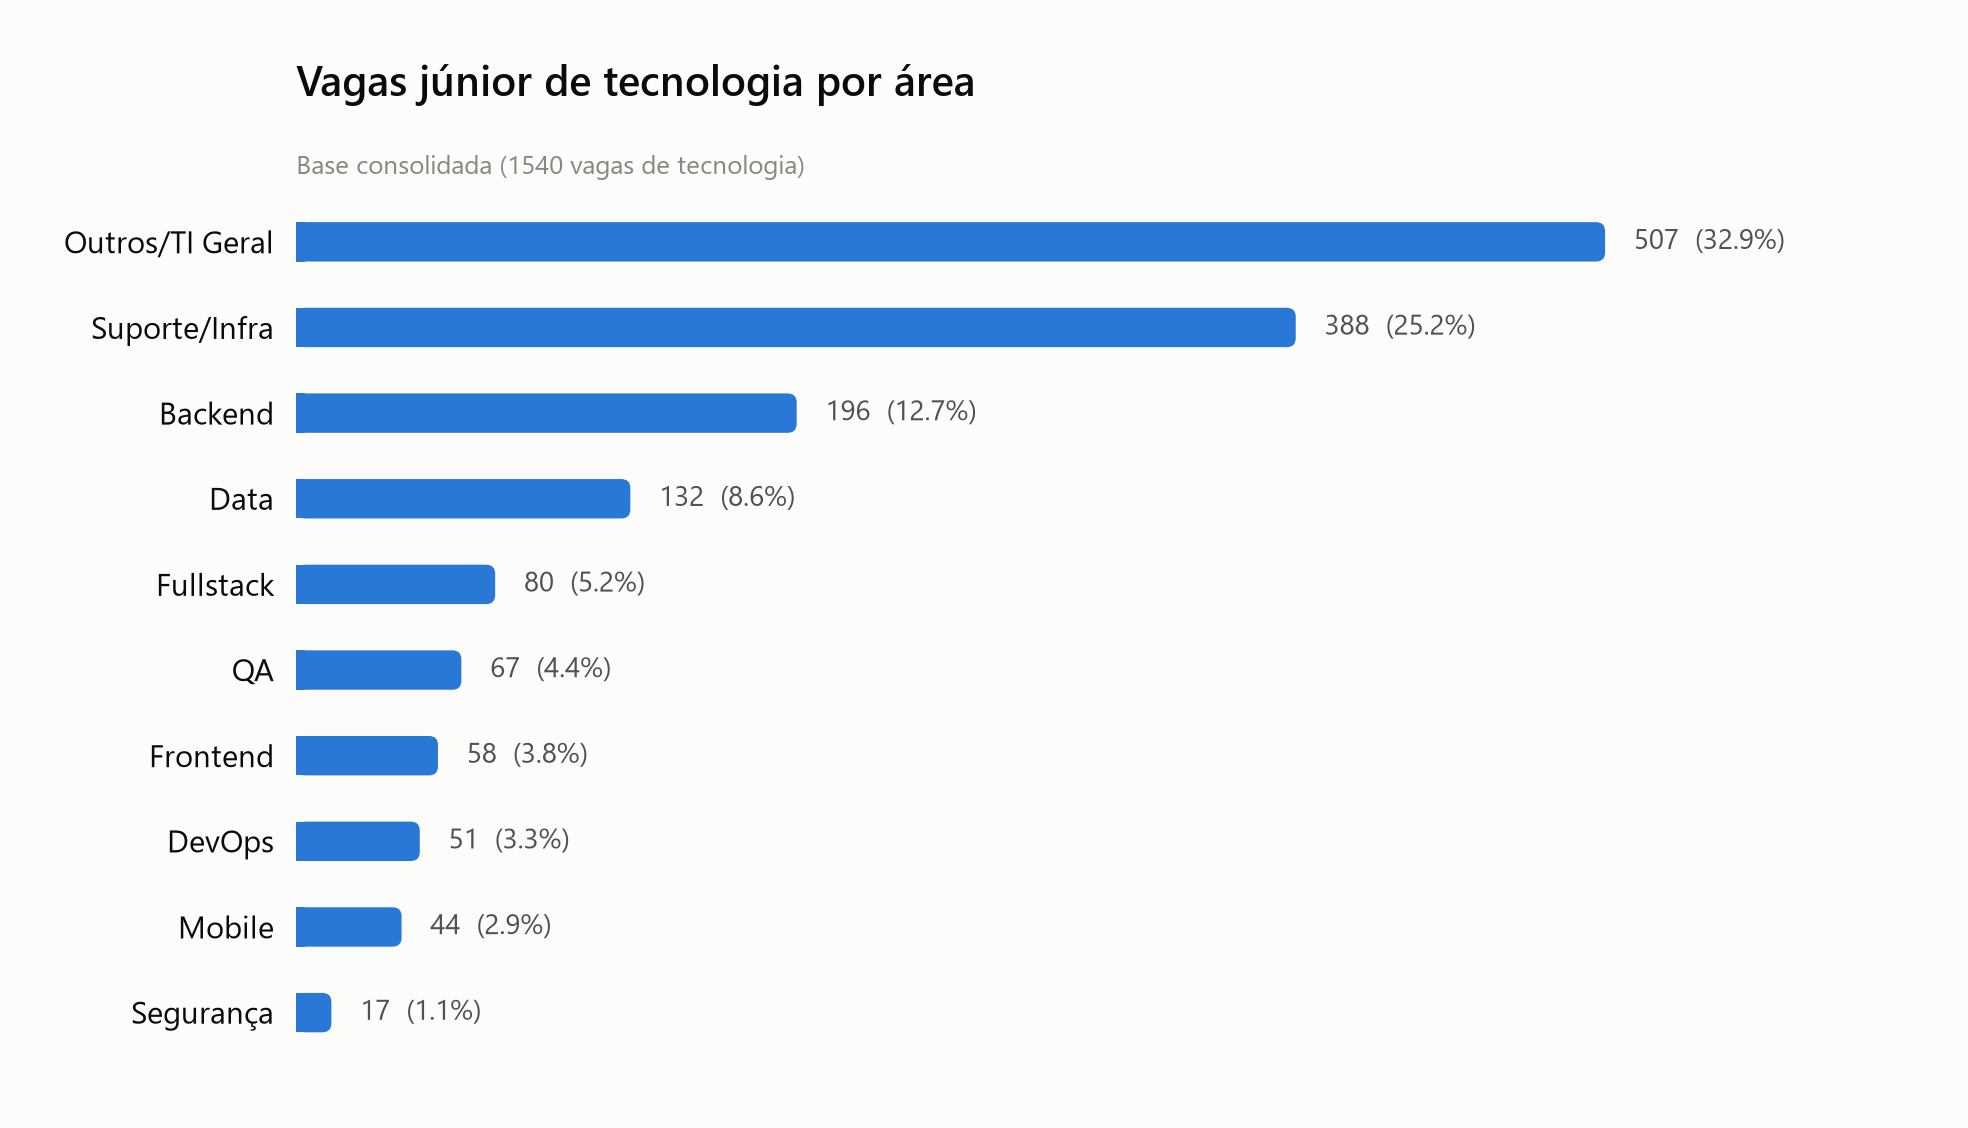
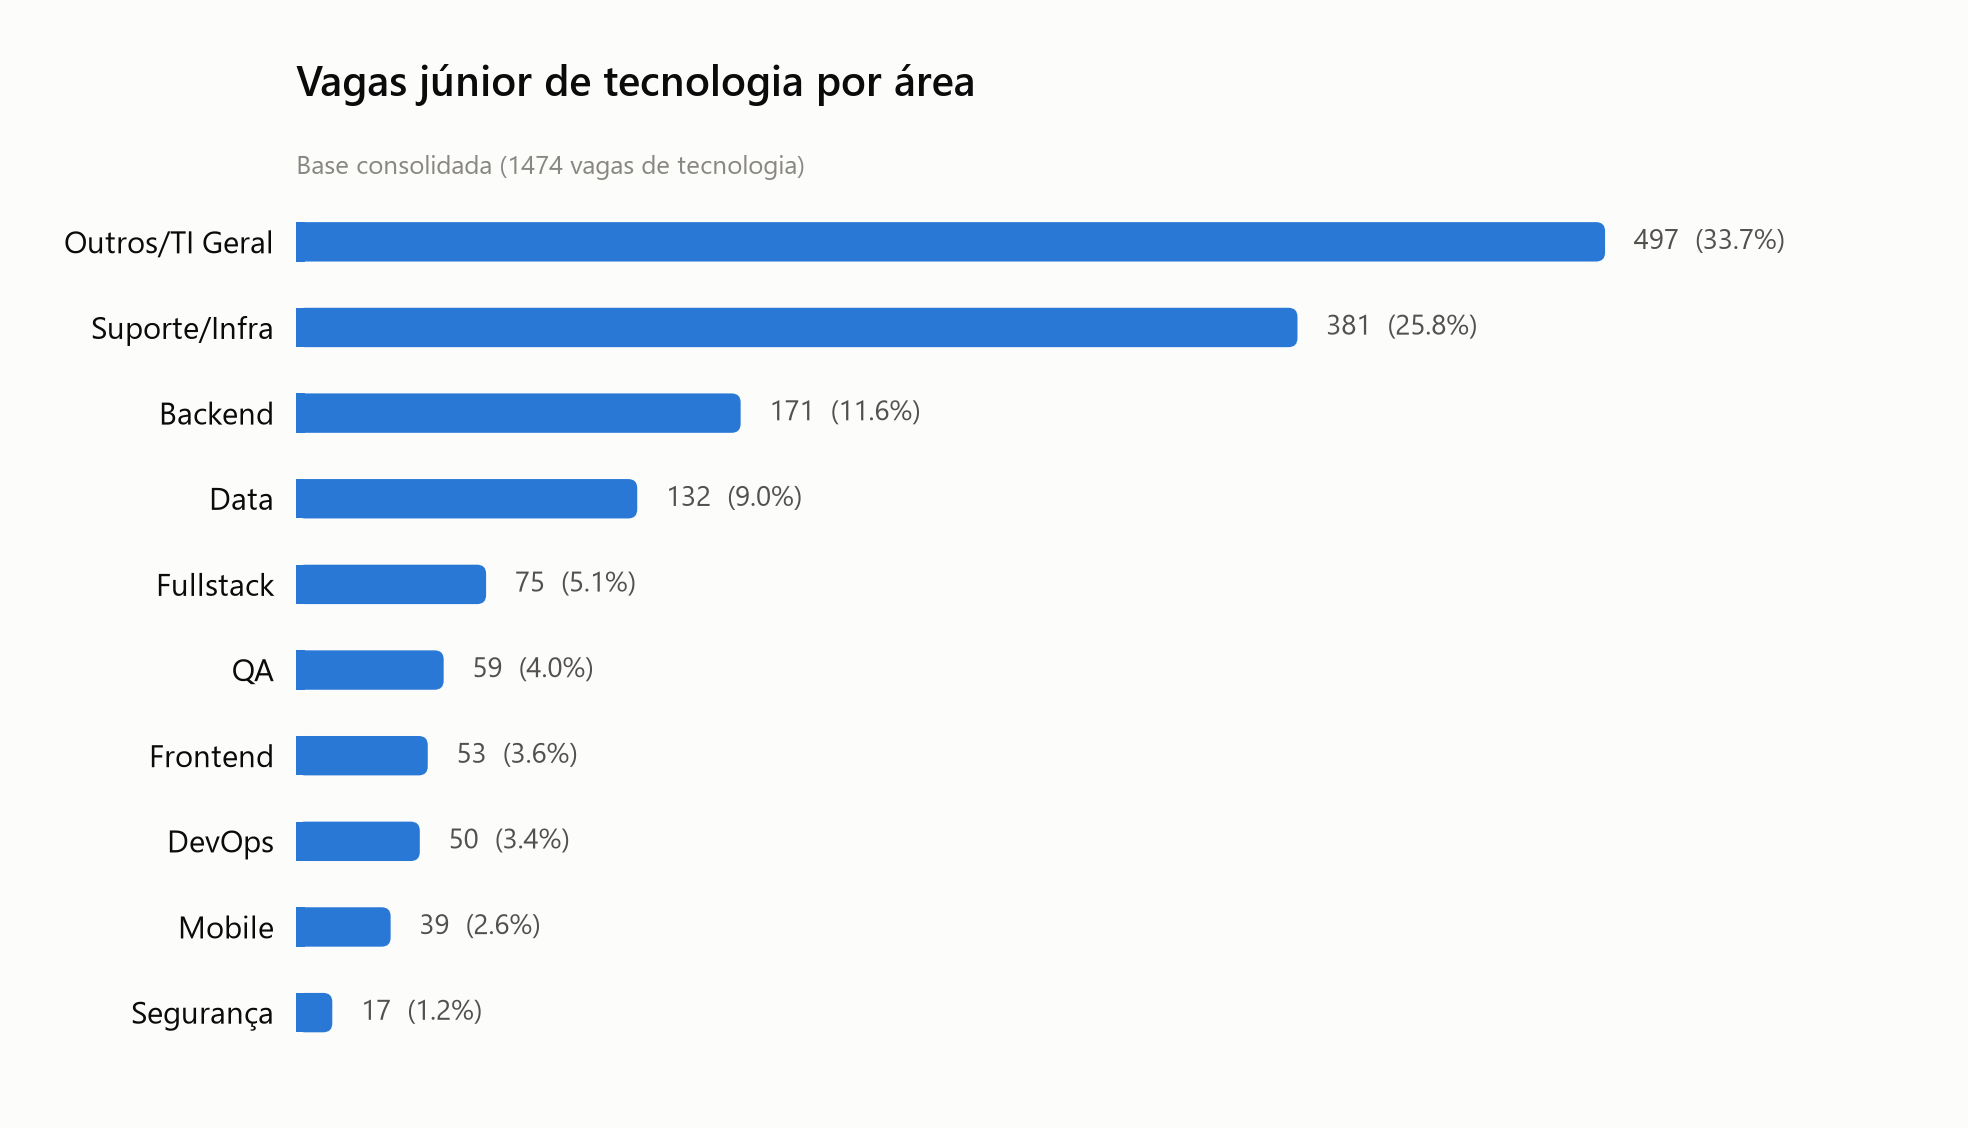
refactor: alinha identificacao do projeto tech-skills-br, expurga dados legados e ajusta licencas
- Atualiza metadados da CLI (prog, docstrings e User-Agent) e arvore do repositorio para tech-skills-br.
- Purga 66 registros anteriores a 2026 do SQLite, consolidando a base 100% no periodo da pesquisa (1.474 vagas em 2026).
- Restaura o texto original da Licenca MIT de Emidio Lopes em docs/arquitetura_tecnica.md.
- Adiciona referencia de projeto derivado no README.md e sincroniza seed/vagas.csv e relatorios consolidados.

diff --git a/main.py b/main.py
@@ -1,9 +1,10 @@
-"""CLI do vagas-tech-junior.
+"""CLI do tech-skills-br - Mapeamento de Skills em Tecnologia no Brasil (PIBIC).
 
 Exemplos:
-    python main.py                          # coleta completa (Gupy + Vagas.com)
-    python main.py --sources gupy           # so a Gupy
-    python main.py --terms "estagio dados" "engenheiro de dados junior"
+    python main.py                          # coleta padrao gratuita (Gupy, LinkedIn, etc.)
+    python main.py --sources serpapi        # coleta isolada Google Jobs
+    python main.py --sources theirstack     # coleta isolada TheirStack
+    python main.py --terms "estagio ti" "engenheiro de dados junior"
     python main.py --max-pages 2 --delay 2  # coleta menor e mais lenta
     python main.py --strict                 # descarta titulos "Junior/Pleno"
 """
@@ -22,11 +23,12 @@ from scraper.sources import AVAILABLE_SOURCES, DEFAULT_SOURCES
 
 def build_parser() -> argparse.ArgumentParser:
     parser = argparse.ArgumentParser(
-        prog="vagas-tech-junior",
-        description="Descobre qual area de tecnologia tem mais vagas junior no Brasil.",
+        prog="tech-skills-br",
+        description="Mineracao e mapeamento de habilidades tecnicas (skills) demandadas no mercado de tecnologia no Brasil (PIBIC).",
         formatter_class=argparse.RawDescriptionHelpFormatter,
         epilog=__doc__,
     )
+
     parser.add_argument(
         "--sources", nargs="+", default=list(DEFAULT_SOURCES),
         choices=AVAILABLE_SOURCES,

diff --git a/scraper/config.py b/scraper/config.py
@@ -45,8 +45,10 @@ def _load_dotenv(env_path: Path | None = None) -> None:
 _load_dotenv()
 
 USER_AGENT = (
-    "vagas-tech-junior/1.0 (estudo de mercado de trabalho) python-requests"
+    "tech-skills-br/1.0 (pesquisa academica PIBIC - mapeamento de skills tech) python-requests"
 )
+
+
 
 # Termos usados na busca. Cada termo vira uma consulta separada em cada portal.
 SEARCH_TERMS: list[str] = [

diff --git a/scraper/__init__.py b/scraper/__init__.py
@@ -1,4 +1,4 @@
-"""vagas-tech-junior -- qual area de tech mais contrata junior no Brasil."""
+"""tech-skills-br -- Mapeamento de Skills em Tecnologia no Brasil (PIBIC)."""
 
 __version__ = "1.0.0"
 

diff --git a/docs/relatorio_banco_consolidado.md b/docs/relatorio_banco_consolidado.md
@@ -1,79 +1,79 @@
-# Relatório Consolidado da Base de Vagas (1540 vagas)
+# Relatório Consolidado da Base de Vagas (1474 vagas)
 
-- **Data de geração:** 23/08/2026 17:36
-- **Período coberto:** 10/03/2022 até 23/08/2026
-- **Total de vagas consolidadas:** 1540
+- **Data de geração:** 24/08/2026 01:19
+- **Período coberto:** 05/01/2026 até 23/08/2026
+- **Total de vagas consolidadas:** 1474
 
 ## Ranking de Áreas de Tecnologia
 
 | Posição | Área | Vagas | % | Gráfico |
 |---|---|---|---|---|
-| 1 | Outros/TI Geral | 507 | 32.9% | #######............. |
-| 2 | Suporte/Infra | 388 | 25.2% | #####............... |
-| 3 | Backend | 196 | 12.7% | ###................. |
-| 4 | Data | 132 | 8.6% | ##.................. |
-| 5 | Fullstack | 80 | 5.2% | #................... |
-| 6 | QA | 67 | 4.4% | #................... |
-| 7 | Frontend | 58 | 3.8% | #................... |
-| 8 | DevOps | 51 | 3.3% | #................... |
-| 9 | Mobile | 44 | 2.9% | #................... |
-| 10 | Segurança | 17 | 1.1% | .................... |
+| 1 | Outros/TI Geral | 497 | 33.7% | #######............. |
+| 2 | Suporte/Infra | 381 | 25.8% | #####............... |
+| 3 | Backend | 171 | 11.6% | ##.................. |
+| 4 | Data | 132 | 9.0% | ##.................. |
+| 5 | Fullstack | 75 | 5.1% | #................... |
+| 6 | QA | 59 | 4.0% | #................... |
+| 7 | Frontend | 53 | 3.6% | #................... |
+| 8 | DevOps | 50 | 3.4% | #................... |
+| 9 | Mobile | 39 | 2.6% | #................... |
+| 10 | Segurança | 17 | 1.2% | .................... |
 
 ## Distribuição por Macrorregião
 
 | Região | Vagas | % | Gráfico |
 |---|---|---|---|
-| Sudeste | 710 | 46.1% | #########........... |
-| Remoto Nacional | 235 | 15.3% | ###................. |
-| Sul | 212 | 13.8% | ###................. |
-| Nacional | 124 | 8.1% | ##.................. |
-| Nordeste | 105 | 6.8% | #................... |
-| Não informado | 70 | 4.5% | #................... |
-| Centro-Oeste | 56 | 3.6% | #................... |
-| Norte | 28 | 1.8% | .................... |
+| Sudeste | 673 | 45.7% | #########........... |
+| Remoto Nacional | 233 | 15.8% | ###................. |
+| Sul | 203 | 13.8% | ###................. |
+| Nacional | 124 | 8.4% | ##.................. |
+| Nordeste | 91 | 6.2% | #................... |
+| Não informado | 69 | 4.7% | #................... |
+| Centro-Oeste | 55 | 3.7% | #................... |
+| Norte | 26 | 1.8% | .................... |
 
 ## Top 10 Polos Tecnológicos Regionais
 
 | Posição | Polo | Vagas | % | Gráfico |
 |---|---|---|---|---|
-| 1 | São Paulo | 388 | 25.2% | #####............... |
-| 2 | Remoto | 235 | 15.3% | ###................. |
-| 3 | Nacional | 124 | 8.1% | ##.................. |
-| 4 | Estado/SP | 96 | 6.2% | #................... |
-| 5 | Belo Horizonte | 78 | 5.1% | #................... |
-| 6 | Florianópolis | 73 | 4.7% | #................... |
-| 7 | Rio de Janeiro | 53 | 3.4% | #................... |
-| 8 | Porto Alegre | 48 | 3.1% | #................... |
-| 9 | Campinas | 41 | 2.7% | #................... |
-| 10 | Estado/MG | 37 | 2.4% | .................... |
+| 1 | São Paulo | 375 | 25.4% | #####............... |
+| 2 | Remoto | 233 | 15.8% | ###................. |
+| 3 | Nacional | 124 | 8.4% | ##.................. |
+| 4 | Estado/SP | 86 | 5.8% | #................... |
+| 5 | Belo Horizonte | 73 | 5.0% | #................... |
+| 6 | Florianópolis | 66 | 4.5% | #................... |
+| 7 | Porto Alegre | 47 | 3.2% | #................... |
+| 8 | Rio de Janeiro | 46 | 3.1% | #................... |
+| 9 | Campinas | 40 | 2.7% | #................... |
+| 10 | Estado/MG | 37 | 2.5% | .................... |
 
 ## Distribuição por Modalidade de Trabalho
 
 | Modalidade | Vagas | % | Gráfico |
 |---|---|---|---|
-| Presencial | 1091 | 70.8% | ##############...... |
-| Remoto | 278 | 18.1% | ####................ |
-| Não informado | 91 | 5.9% | #................... |
-| Híbrido | 80 | 5.2% | #................... |
+| Presencial | 1032 | 70.0% | ##############...... |
+| Remoto | 272 | 18.5% | ####................ |
+| Não informado | 91 | 6.2% | #................... |
+| Híbrido | 79 | 5.4% | #................... |
 
 ## Distribuição por Nível de Entrada
 
 | Senioridade | Vagas | % |
 |---|---|---|
-| Júnior | 981 | 63.7% |
-| Estágio | 514 | 33.4% |
+| Júnior | 930 | 63.1% |
+| Estágio | 501 | 34.0% |
 | Aprendiz | 27 | 1.8% |
-| Trainee | 18 | 1.2% |
+| Trainee | 16 | 1.1% |
 
 ## Distribuição por Portal de Origem
 
 | Portal | Vagas | % |
 |---|---|---|
-| linkedin | 750 | 48.7% |
-| serpapi | 352 | 22.9% |
-| gupy | 220 | 14.3% |
-| theirstack | 140 | 9.1% |
-| vagas | 61 | 4.0% |
+| linkedin | 698 | 47.4% |
+| serpapi | 352 | 23.9% |
+| gupy | 206 | 14.0% |
+| theirstack | 140 | 9.5% |
+| vagas | 61 | 4.1% |
 | programathor | 14 | 0.9% |
 | trampos | 3 | 0.2% |
 
@@ -81,38 +81,38 @@
 
 | Posição | Tecnologia | Vagas Citadas |
 |---|---|---|
-| 1 | Redes/TCP-IP | 129 |
+| 1 | Redes/TCP-IP | 126 |
 | 2 | Inteligência Artificial | 108 |
-| 3 | Hardware | 101 |
-| 4 | SQL | 99 |
-| 5 | JavaScript | 95 |
-| 6 | Python | 91 |
-| 7 | Java | 87 |
-| 8 | Git | 82 |
-| 9 | Inglês | 78 |
-| 10 | React | 59 |
-| 11 | API REST | 58 |
-| 12 | Metodologias Ágeis | 54 |
-| 13 | Windows | 53 |
-| 14 | Service Desk | 51 |
-| 15 | Segurança da Informação | 47 |
-| 16 | Node.js | 44 |
-| 17 | C# | 40 |
+| 3 | SQL | 97 |
+| 4 | Hardware | 97 |
+| 5 | JavaScript | 93 |
+| 6 | Git | 82 |
+| 7 | Python | 81 |
+| 8 | Java | 76 |
+| 9 | Inglês | 74 |
+| 10 | API REST | 58 |
+| 11 | React | 55 |
+| 12 | Windows | 51 |
+| 13 | Metodologias Ágeis | 51 |
+| 14 | Service Desk | 50 |
+| 15 | Segurança da Informação | 45 |
+| 16 | Node.js | 42 |
+| 17 | C# | 39 |
 | 18 | ERP | 38 |
-| 19 | Angular | 38 |
-| 20 | Algoritmos | 38 |
+| 19 | Algoritmos | 38 |
+| 20 | Angular | 36 |
 
 ## Top 10 Empresas com Mais Vagas
 
 | Empresa | Vagas |
 |---|---|
 | Jobbol | 49 |
-| BairesDev | 43 |
 | Wyntech | 24 |
-| Quality Digital | 14 |
+| Quality Digital | 13 |
 | TOTVS | 12 |
 | Confidencial | 11 |
-| abler Vagas | 9 |
 | SiDi | 9 |
 | Casa Do Dev | 9 |
 | BuscarVagas - Empregos Brasil | 9 |
+| BairesDev | 9 |
+| Sidia Instituto de Ciência e Tecnologia | 8 |

diff --git a/README.md b/README.md
@@ -11,6 +11,9 @@
 
 Projeto de pesquisa científica (PIBIC / Iniciação Científica) voltado para a **mineração de dados, extração de habilidades técnicas (*skills*) e análise do mercado de trabalho de tecnologia no Brasil**, comparando a demanda real das empresas com os referenciais curriculares do **MEC (Diretrizes Curriculares Nacionais - DCNs)** e da **Sociedade Brasileira de Computação (SBC)**.
 
+> *Projeto derivado do [vagas-tech-junior](docs/arquitetura_tecnica.md#agradecimentos-e-créditos).*
+
+
 
 ---
 
@@ -108,7 +111,7 @@ Acesse a documentação interativa no navegador: **[http://localhost:8000/docs](
 ## Estrutura do Repositório
 
 ```text
-vagas-tech-junior/
+tech-skills-br/
 ├── api/                   # API FastAPI (endpoints, modelos ORM, schemas Pydantic)
 │   ├── database.py        # Configuração SQLAlchemy (SQLite / PostgreSQL)
 │   ├── models.py          # Modelos de dados (Vaga, Tecnologia, VagaTecnologia)

diff --git a/docs/arquitetura_tecnica.md b/docs/arquitetura_tecnica.md
@@ -167,7 +167,8 @@ Este projeto é distribuído sob a licença **MIT**, em conformidade com a licen
 ```text
 MIT License
 
-Copyright (c) 2026 Emidio Lopes / Pesquisa PIBIC
+Copyright (c) 2026 Emidio Lopes
+
 
 Permission is hereby granted, free of charge, to any person obtaining a copy
 of this software and associated documentation files (the "Software"), to deal
